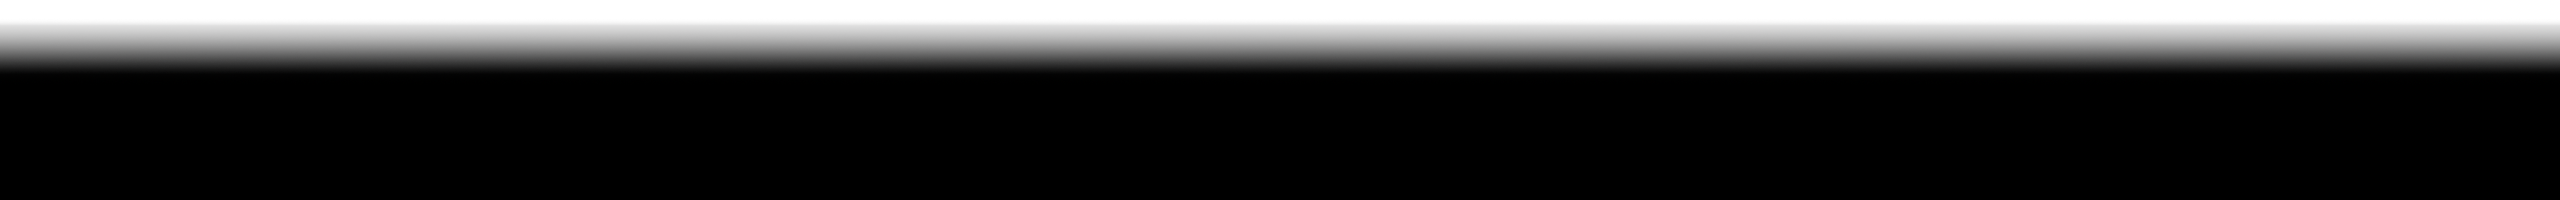
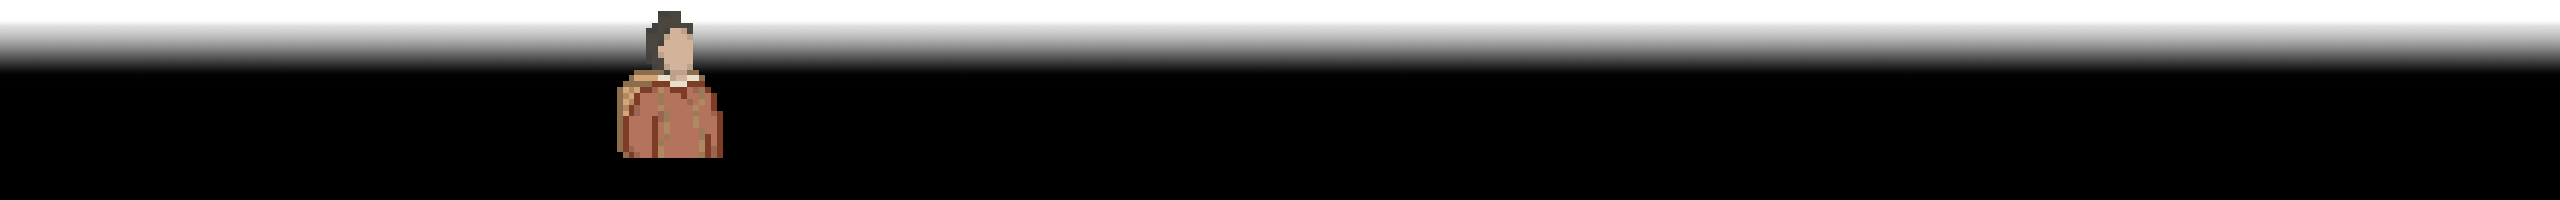
inserito mercante indovinello

Changed region(s): [[0.2188, 0.06, 0.2812, 0.81]]

diff --git a/src/dialogo_indovinello.js b/src/dialogo_indovinello.js
@@ -75,7 +75,7 @@ let testo_risposte5_F;
 
 function preload_dialogo_indovinello(s){
 
-    img_mercante_indovinello = PP.assets.image.load(s,"assets/images/mercante.png");
+    img_mercante_indovinello = PP.assets.image.load(s,"assets/images/mercante_indovinello.png");
     img_casella_indovinello_mercante = PP.assets.image.load(s,"assets/images/casella_indovinello_mercante.png");
     img_casella_indovinello_Zhu = PP.assets.image.load(s,"assets/images/casella_zhu.png");
     img_suggerimento_A_indovinello = PP.assets.image.load(s,"assets/images/tasto_A.png");
@@ -120,7 +120,7 @@ function preload_dialogo_indovinello(s){
 
 function create_dialogo_indovinello(s,player){
 
-    mercante_indovinello = PP.assets.image.add(s,img_mercante_indovinello,5500, 1055, 0, 0);
+    mercante_indovinello = PP.assets.image.add(s,img_mercante_indovinello,5500, 1059, 0, 0);
     PP.physics.add(s,mercante_indovinello,PP.physics.type.STATIC);
     PP.physics.add_overlap_f(s,player,mercante_indovinello,overlap_mercante_indovinello);
 
@@ -131,7 +131,7 @@ function create_dialogo_indovinello(s,player){
     suggerimento_A_indovinello = PP.assets.image.add(s,img_suggerimento_A_indovinello,5530,1020,0,0);
     suggerimento_A_indovinello.visibility.alpha = 0;
 
-    casella_indovinello_mercante = PP.assets.image.add(s,img_casella_indovinello_mercante,4610,1195,0,0); //prova 4610
+    casella_indovinello_mercante = PP.assets.image.add(s,img_casella_indovinello_mercante,4600,1195,0,0); //prova 4610
     casella_indovinello_mercante.visibility.alpha = 0
 
     casella_indovinello_Zhu = PP.assets.image.add(s,img_casella_indovinello_Zhu,4610,1195,0,0);
